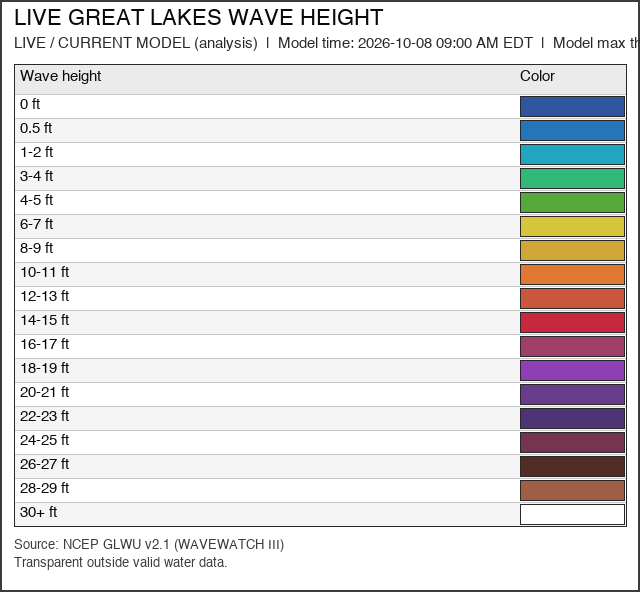
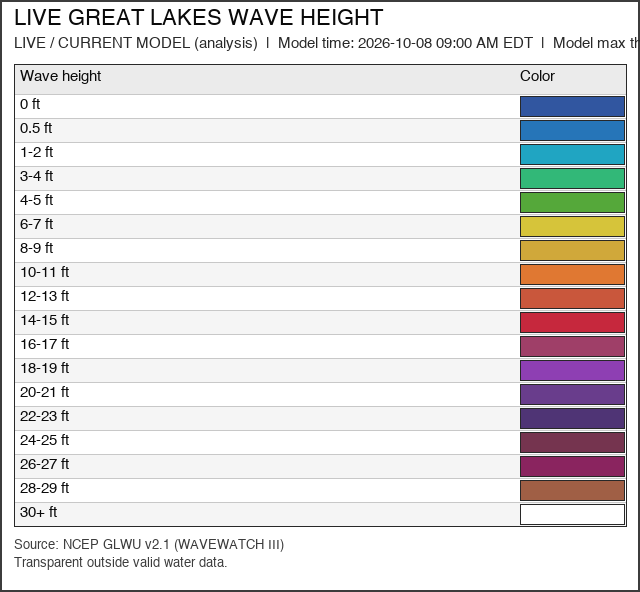
Live Wave Height: 26-27 ft #8A245F

Changed region(s): [[0.8125, 0.7601, 1.0, 0.8209]]

diff --git a/scripts/build_wave_height.py b/scripts/build_wave_height.py
@@ -78,7 +78,7 @@ WAVE_FIXED_BINS = [
     ("20-21 ft", "#693D8C", 20.0, 22.0),
     ("22-23 ft", "#4F3475", 22.0, 24.0),
     ("24-25 ft", "#75344F", 24.0, 26.0),
-    ("26-27 ft", "#542C27", 26.0, 28.0),
+    ("26-27 ft", "#8A245F", 26.0, 28.0),
     ("28-29 ft", "#A05F45", 28.0, 30.0),
     ("30+ ft", "#FFFFFF", 30.0, float("inf")),
 ]
@@ -90,7 +90,7 @@ WAVE_FIXED_RGB = [_hex_rgb(hx) for _, hx, _, _ in WAVE_FIXED_BINS]
 assert [hx for _, hx, _, _ in WAVE_FIXED_BINS] == [
     "#3156A0", "#2675B8", "#20A5C2", "#32B878", "#55A83A", "#D6C43A",
     "#D0A83A", "#E07832", "#C9573C", "#C6283D", "#9F3F68", "#8E3FB3",
-    "#693D8C", "#4F3475", "#75344F", "#542C27", "#A05F45", "#FFFFFF"], \
+    "#693D8C", "#4F3475", "#75344F", "#8A245F", "#A05F45", "#FFFFFF"], \
     "wave-height fixed hexes must match the user table verbatim"
 assert all(WAVE_FIXED_BINS[i][2] < WAVE_FIXED_BINS[i][3]
            and WAVE_FIXED_BINS[i][3] == WAVE_FIXED_BINS[i + 1][2]

diff --git a/scripts/geospatial_utils.py b/scripts/geospatial_utils.py
@@ -165,7 +165,7 @@ def utcnow_iso():
 # Render generation: bump to force every product through one full rebuild
 # (legends/KMLs bake display text in at build time). Skip logic also keys
 # on the source id, so this only ever causes a single extra build.
-RENDER_VERSION = 11
+RENDER_VERSION = 12
 
 
 def detroit_tz():
